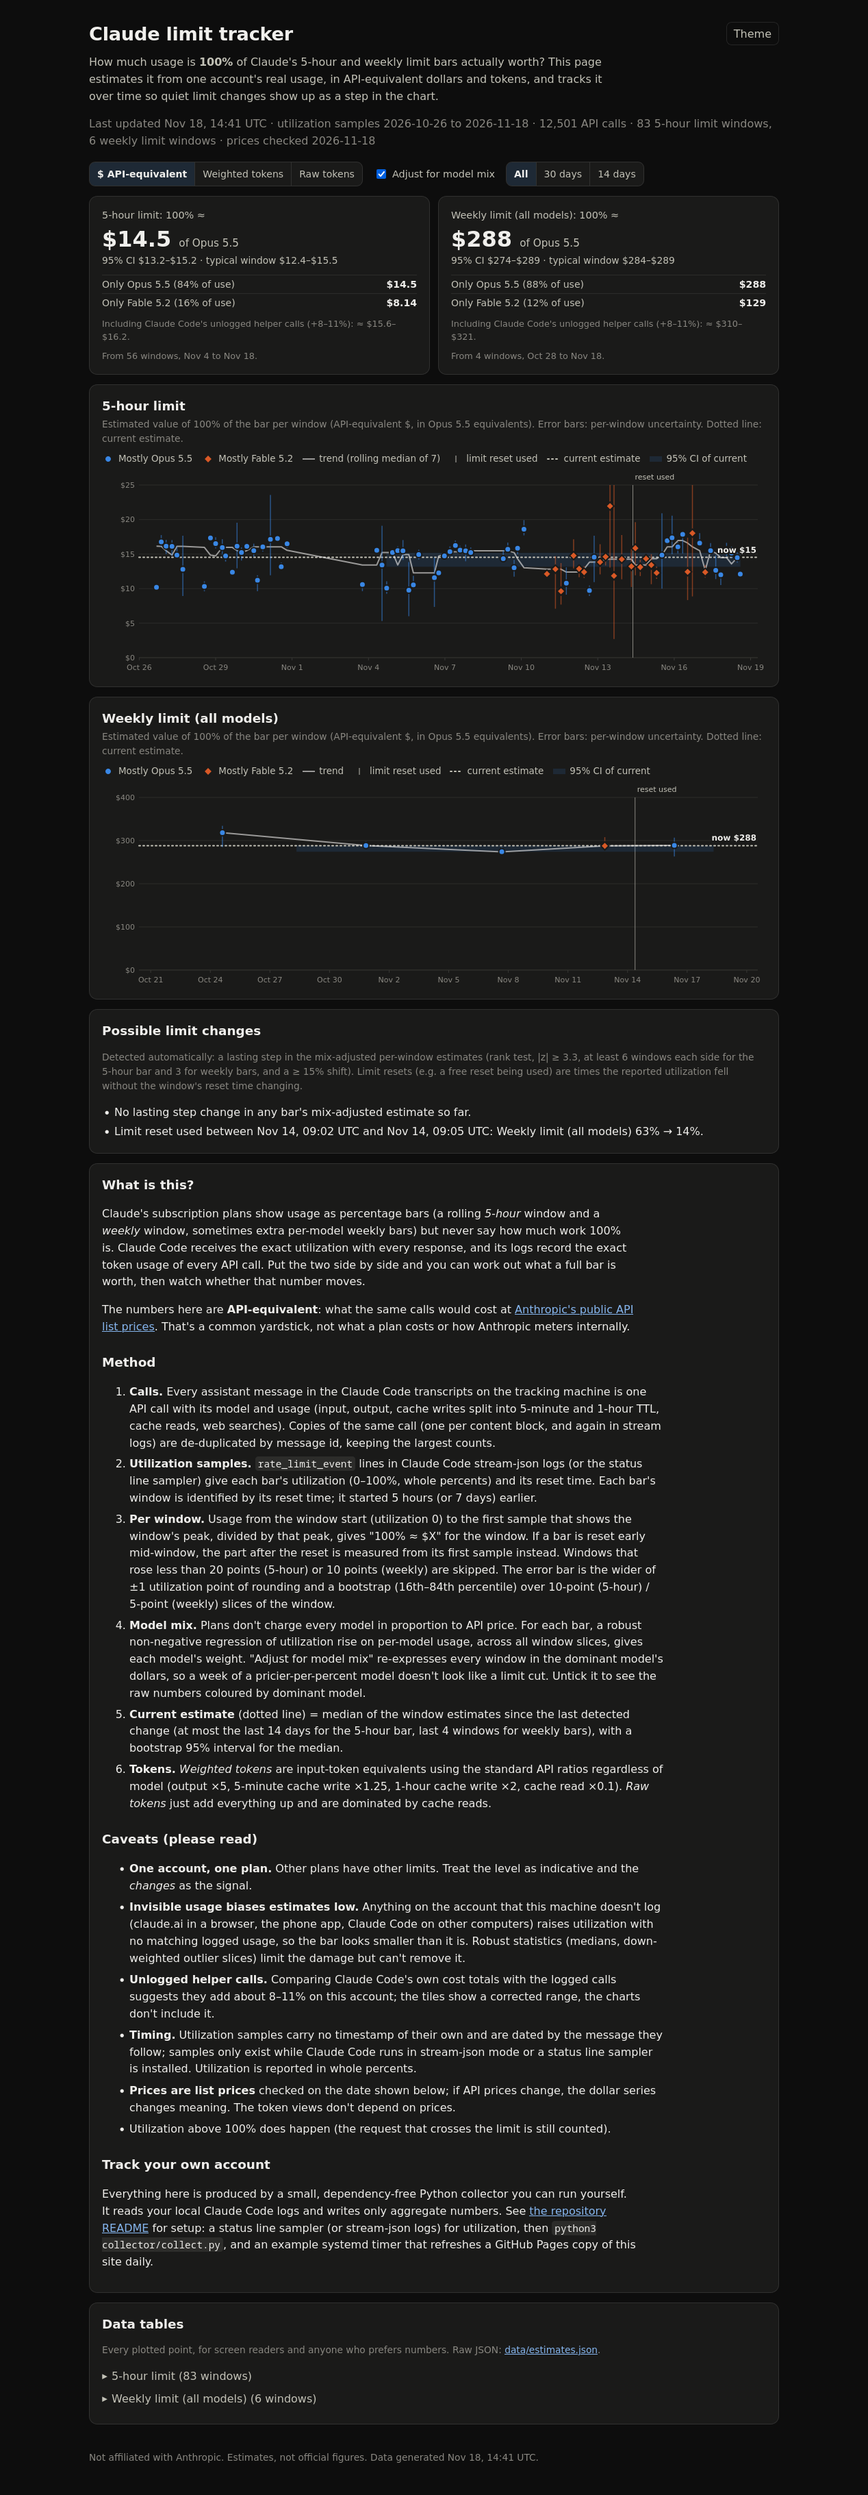
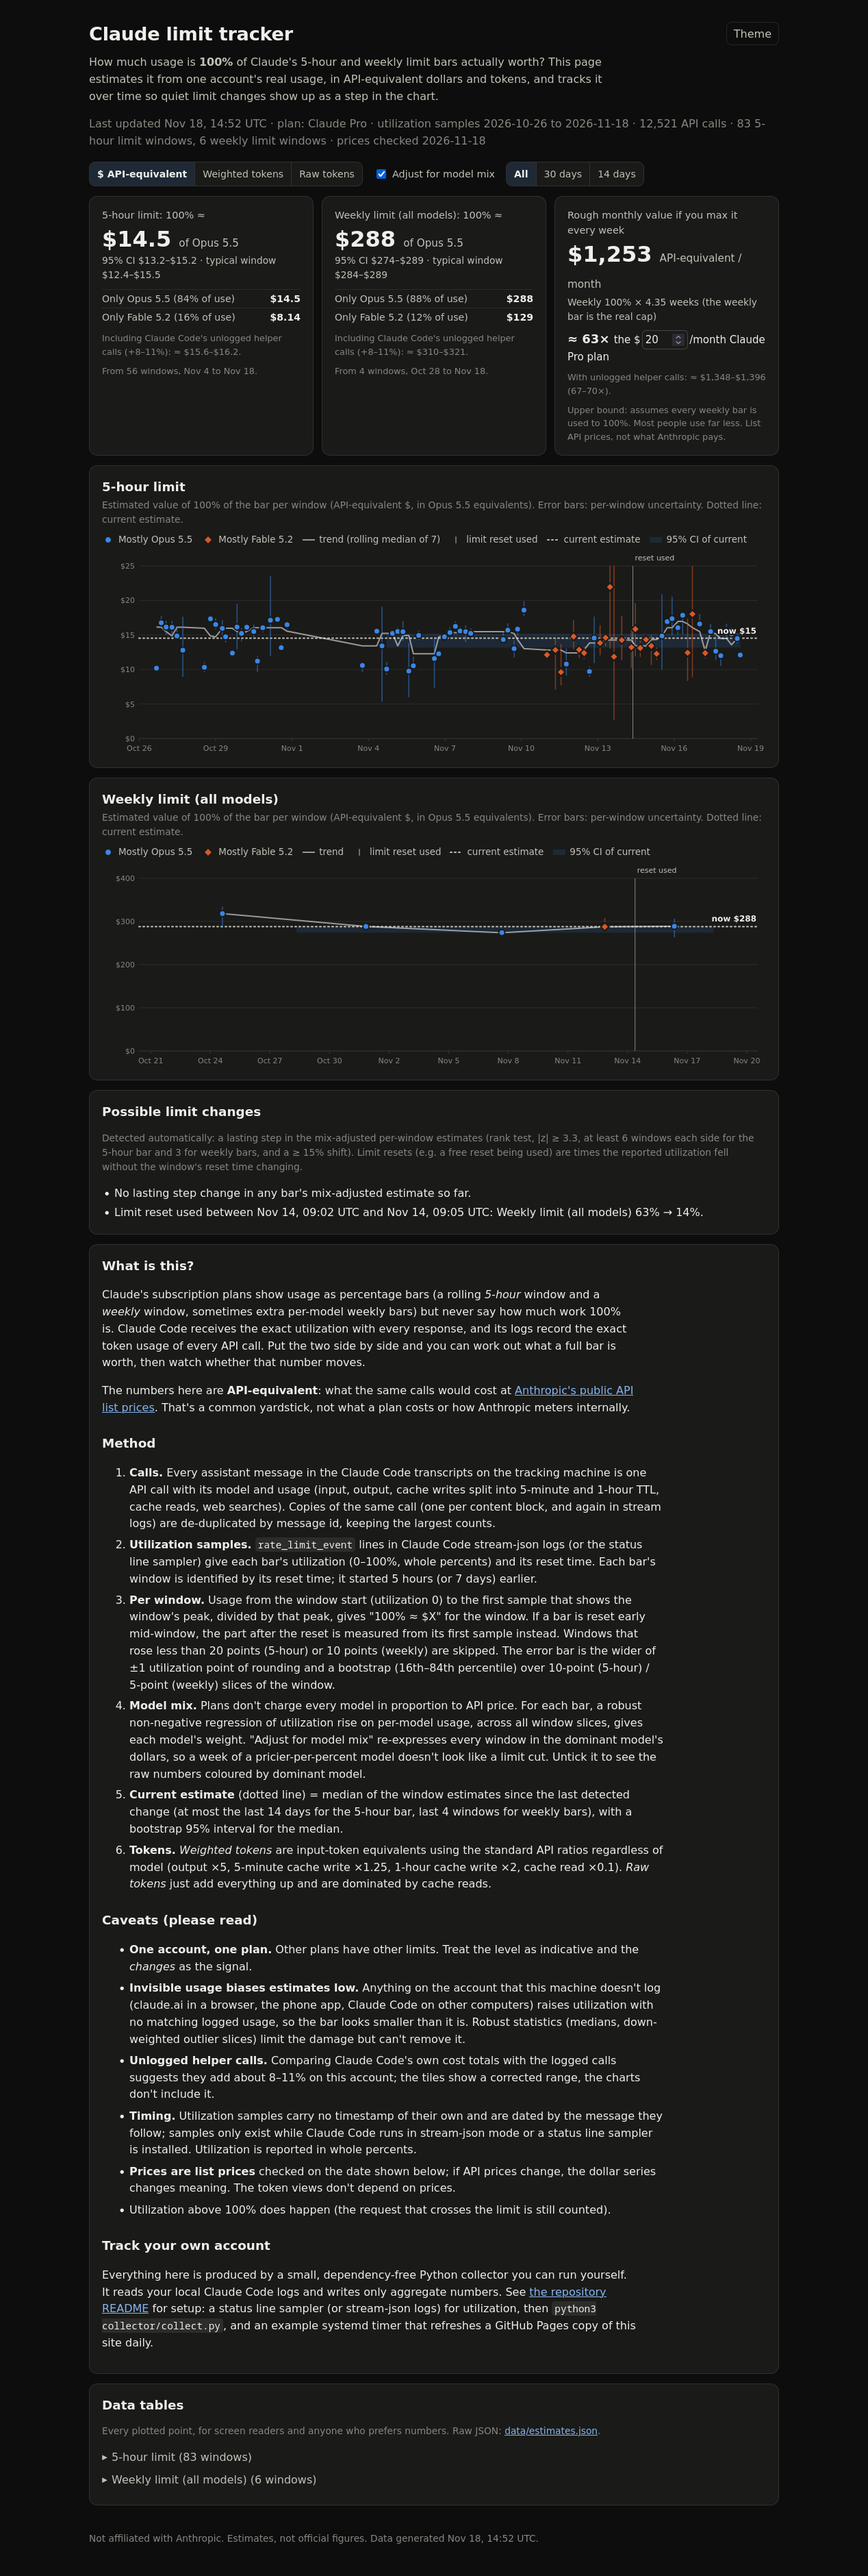
Monthly value card (vs editable plan price, Claude Pro $20 here), plan label

diff --git a/docs/app.js b/docs/app.js
@@ -147,6 +147,42 @@
         dateLabel(cur.t_from) + " to " + dateLabel(cur.t_to) + "."));
       box.appendChild(t);
     });
+    renderValueTile(box, oh);
+  }
+
+  // Rough monthly API value if you max the bars every week, vs the plan's price.
+  var DAYS_PER_MONTH = 30.44;
+  function renderValueTile(box, oh) {
+    var wk = DATA.bars.seven_day && DATA.bars.seven_day.current, fh = DATA.bars.five_hour && DATA.bars.five_hour.current;
+    if (!wk && !fh) return;
+    var u = state.unit;
+    var fromWeek = wk ? wk[kind()][u].median * DAYS_PER_MONTH / 7 : Infinity;
+    var fromFive = fh ? fh[kind()][u].median * (24 / 5) * DAYS_PER_MONTH : Infinity;  // 5h bar maxed around the clock
+    var month = Math.min(fromWeek, fromFive);
+    var t = el("article", { "class": "tile" });
+    t.appendChild(el("div", { "class": "label" }, "Rough monthly value if you max it every week"));
+    var v = el("div", { "class": "value" }, fmt(month, u) + " ");
+    v.appendChild(el("small", null, u === "usd" ? "API-equivalent / month" : (u === "wtok" ? "weighted tokens / month" : "raw tokens / month")));
+    t.appendChild(v);
+    t.appendChild(el("div", { "class": "range" }, fromWeek <= fromFive ? "Weekly 100% × " + (DAYS_PER_MONTH / 7).toFixed(2) + " weeks (the weekly bar is the real cap)"
+      : "5-hour 100% × " + (24 / 5 * DAYS_PER_MONTH).toFixed(0) + " windows"));
+    if (u === "usd") {
+      var price = state.price || DATA.plan_price || 20;
+      var row = el("div", { "class": "mult" });
+      row.appendChild(el("b", null, "≈ " + (month / price).toFixed(month / price >= 10 ? 0 : 1) + "× "));
+      row.appendChild(document.createTextNode("the "));
+      var inp = el("input", { type: "number", min: "1", step: "1", value: String(price), "aria-label": "Plan price per month in USD" });
+      inp.addEventListener("change", function () { var n = parseFloat(inp.value); if (n > 0) { state.price = n; renderTiles(); } });
+      row.appendChild(document.createTextNode("$"));
+      row.appendChild(inp);
+      var planName = DATA.plan && price === (DATA.plan_price || 20) ? " " + DATA.plan : "";
+      row.appendChild(document.createTextNode("/month" + planName + " plan"));
+      t.appendChild(row);
+      if (oh) t.appendChild(el("div", { "class": "note" }, "With unlogged helper calls: ≈ " + fmt(month * oh.lo, "usd") + "–" + fmt(month * oh.hi, "usd") +
+        " (" + (month * oh.lo / price).toFixed(0) + "–" + (month * oh.hi / price).toFixed(0) + "×)."));
+    }
+    t.appendChild(el("div", { "class": "note" }, "Upper bound: assumes every weekly bar is used to 100%. Most people use far less. Priced at API list rates, not Anthropic's own cost."));
+    box.appendChild(t);
   }
 
   // ------------------------------------------------------------ charts

diff --git a/docs/style.css b/docs/style.css
@@ -144,3 +144,7 @@ footer.wrap { padding: 10px 16px 30px; }
   .tile .value { font-size: 1.7rem; }
   .seg button { padding: 6px 8px; font-size: 0.82rem; }
 }
+
+.tile .mult { margin: 8px 0 4px; font-size: 15px; }
+.tile .mult b { font-size: 18px; }
+.tile .mult input { width: 4.5em; font: inherit; padding: 1px 4px; margin: 0 2px; background: var(--surface-2, transparent); color: inherit; border: 1px solid var(--border, #8886); border-radius: 6px; }

diff --git a/collector/collect.py b/collector/collect.py
@@ -803,6 +803,8 @@ def main(argv=None):
     ap.add_argument("--prices", default=os.path.join(HERE, "prices.json"))
     ap.add_argument("--plan", default=os.environ.get("LIMIT_TRACKER_PLAN"),
                     help="optional public plan label shown on the site, e.g. 'Max 20x'")
+    ap.add_argument("--plan-price", type=float, default=float(os.environ.get("LIMIT_TRACKER_PLAN_PRICE") or 20),
+                    help="monthly plan price in USD for the value card (default 20; viewers can change it on the site)")
     ap.add_argument("--bars", type=lambda v: tuple(x.strip() for x in v.split(",") if x.strip()),
                     default=TRACKED_BARS, help="comma separated bar keys to track (default: five_hour,seven_day)")
     ap.add_argument("--rebuild", action="store_true",
@@ -911,6 +913,7 @@ def main(argv=None):
         "schema": SCHEMA,
         "generated_at": iso(now),
         "plan": a.plan or None,
+        "plan_price": a.plan_price,
         "prices": {"source": pricer.p.get("_source"), "checked": pricer.p.get("_checked")},
         "coverage": {
             "calls": len(ledger.t),
